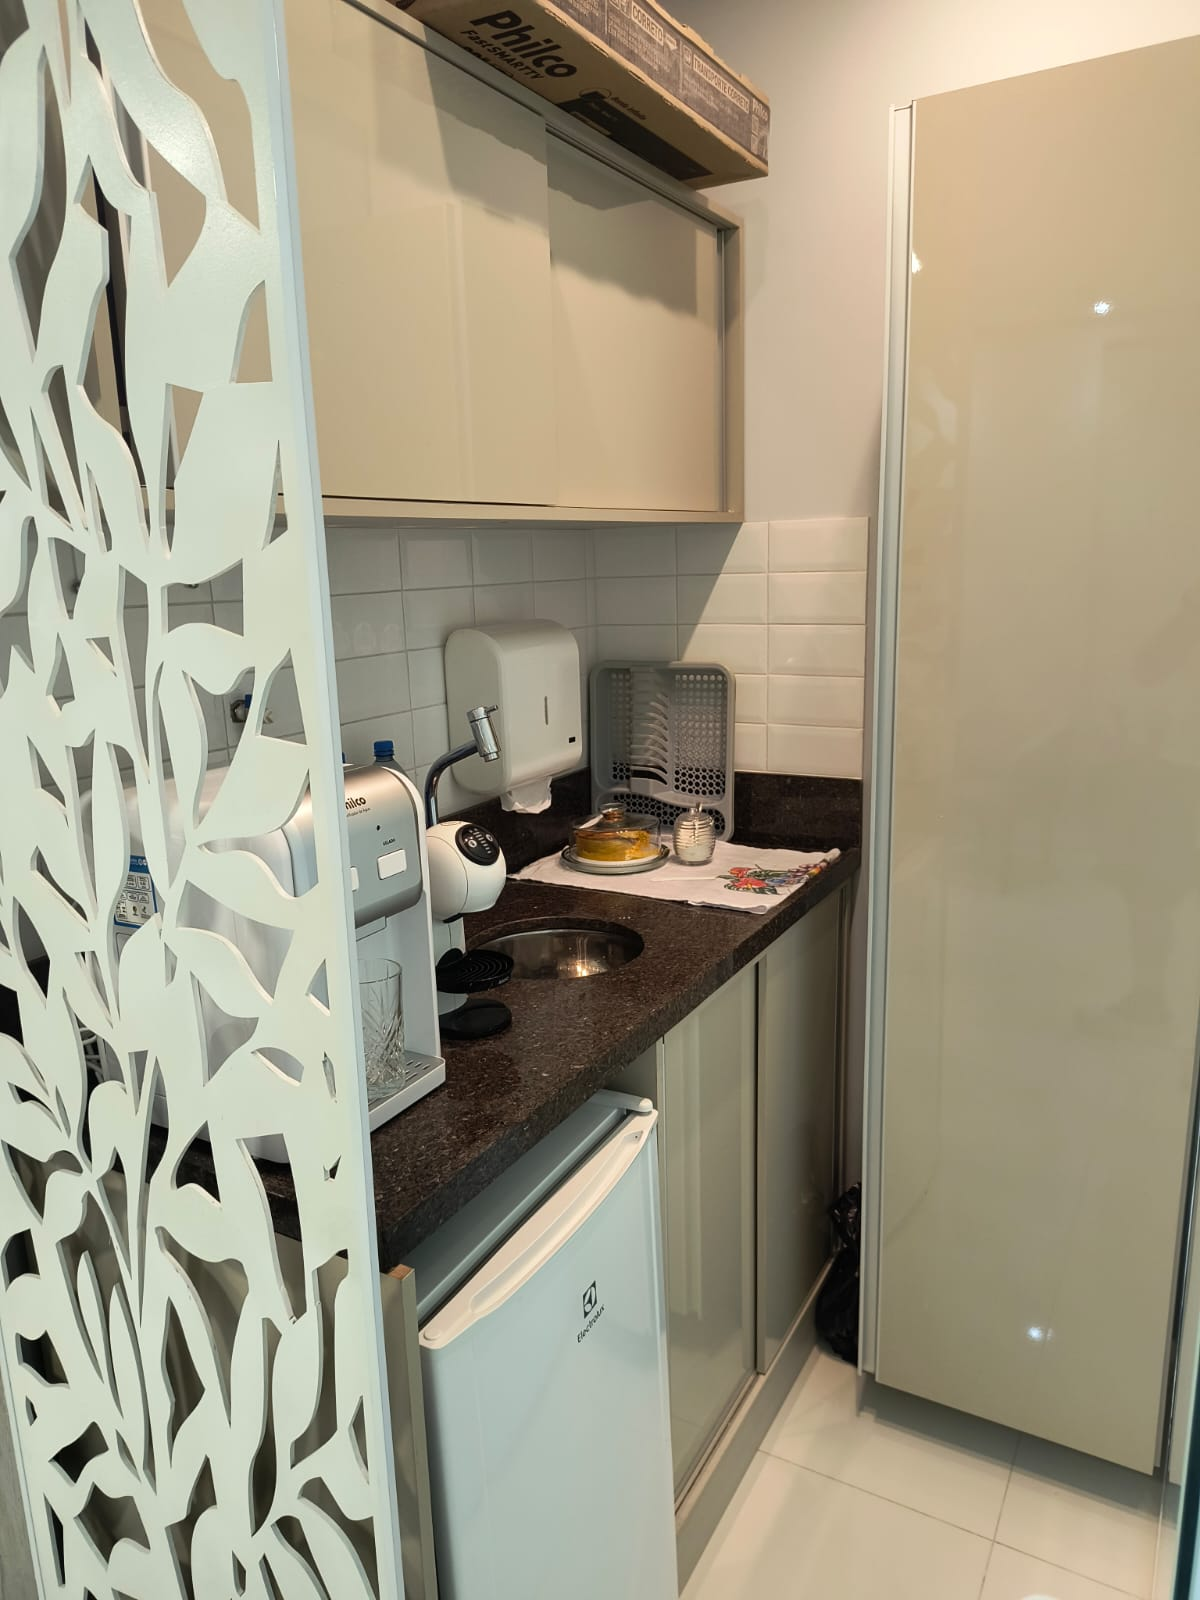
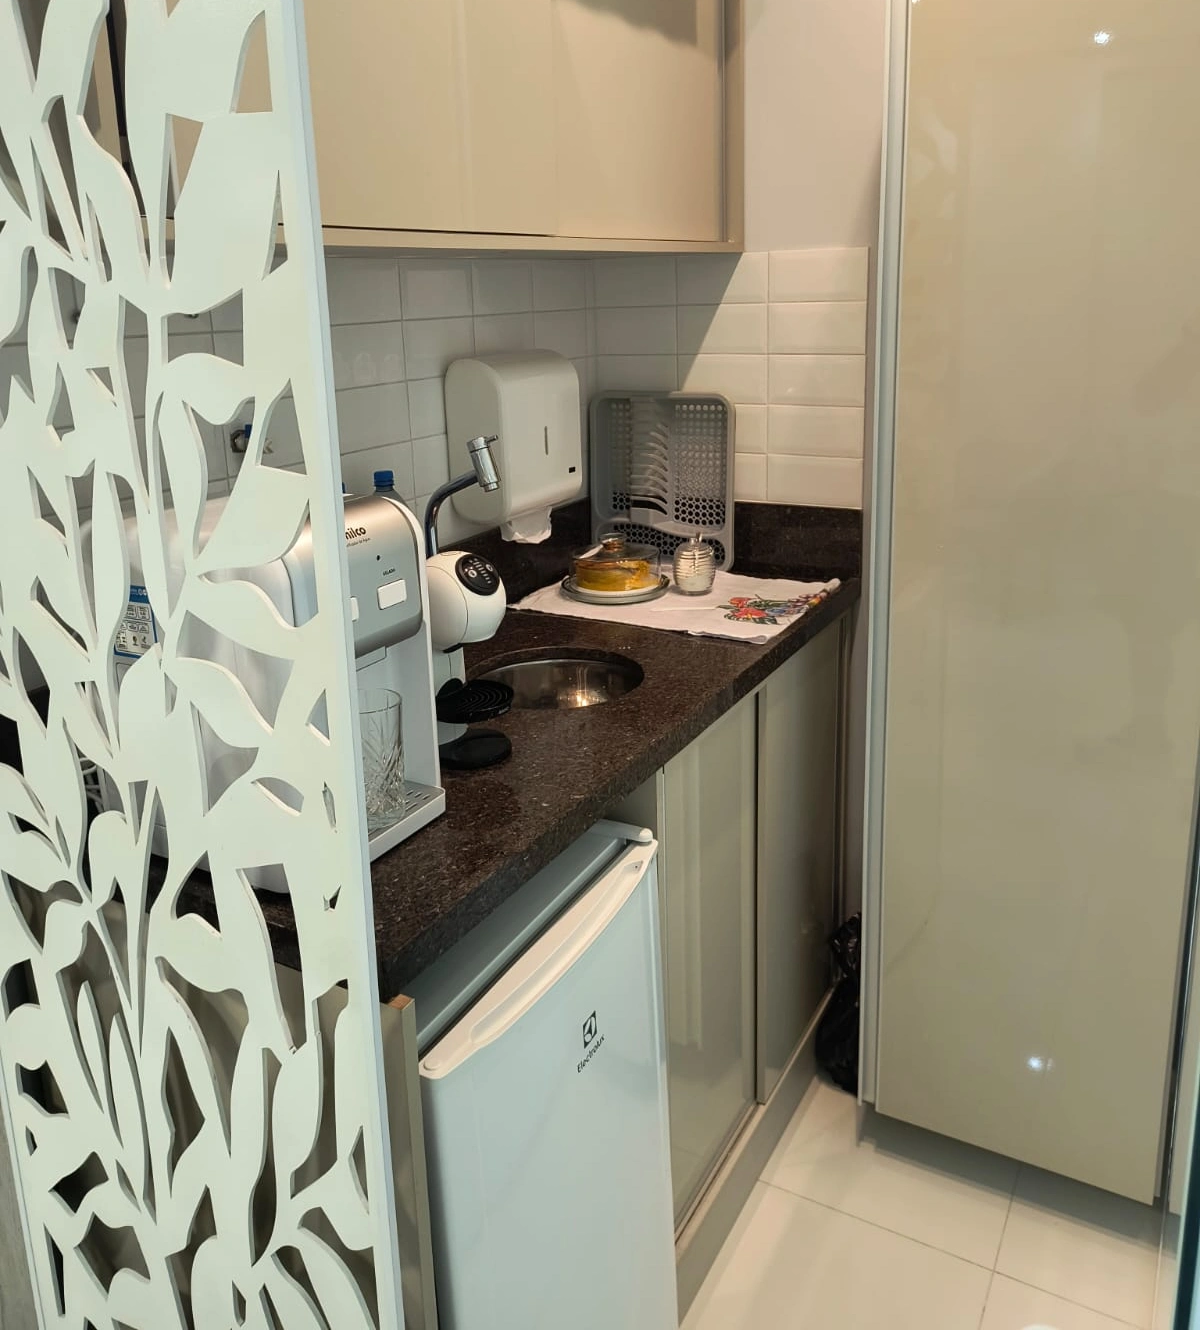
refactor: update SEO tags and site assets
- Add meta tags and canonical URL for better SEO.
- Update technical responsible information in footer.
- Refresh hero section imagery and gallery component.
- Configure standardized favicon and Apple touch icons.

diff --git a/index.html b/index.html
@@ -12,13 +12,26 @@
     <meta name="viewport" content="width=device-width, initial-scale=1.0" />
     <title>Beleza Atual | Clínica de Estética em São Bernardo do Campo</title>
     <meta name="description" content="Tratamentos faciais, corporais e estética íntima com avaliação individualizada e acompanhamento de excelência em São Bernardo do Campo - SP." />
+    <link rel="canonical" href="https://www.clinicabelezaatual.com.br/" />
     <meta property="og:title" content="Clínica Beleza Atual | Estética Facial, Corporal e Íntima" />
     <meta property="og:description" content="Cuidado que respeita a sua individualidade. Conheça nossos tratamentos e agende sua avaliação personalizada." />
+    <meta property="og:url" content="https://www.clinicabelezaatual.com.br/" />
     <meta property="og:type" content="website" />
+    <meta property="og:image" content="https://www.clinicabelezaatual.com.br/assets/recepcao-cba.webp" />
+    <meta property="og:image:alt" content="Recepção da Clínica Beleza Atual em São Bernardo do Campo" />
     <meta name="twitter:card" content="summary_large_image" />
+    <meta name="twitter:title" content="Beleza Atual | Clínica de Estética em São Bernardo do Campo" />
+    <meta name="twitter:description" content="Tratamentos faciais, corporais e estética íntima com avaliação individualizada e excelência." />
+    <meta name="twitter:image" content="https://www.clinicabelezaatual.com.br/assets/recepcao-cba.webp" />
     
-    <link rel="icon" type="image/webp" href="/assets/logo-transparente.webp" />
-    <link rel="apple-touch-icon" href="/assets/logo.jpg" />
+    <!-- Favicon & Icons conforming to Google Search guidelines (multiple of 48px square) -->
+    <link rel="icon" href="/favicon.ico" sizes="any" />
+    <link rel="icon" type="image/png" sizes="48x48" href="/favicon-48x48.png" />
+    <link rel="icon" type="image/png" sizes="96x96" href="/favicon-96x96.png" />
+    <link rel="icon" type="image/png" sizes="192x192" href="/favicon-192x192.png" />
+    <link rel="apple-touch-icon" sizes="180x180" href="/apple-touch-icon.png" />
+    <link rel="manifest" href="/site.webmanifest" />
+    <meta name="theme-color" content="#521C22" />
     
     <!-- Google Fonts: Cormorant Garamond, Playfair Display & Plus Jakarta Sans -->
     <link rel="preconnect" href="https://fonts.googleapis.com">

diff --git a/src/data/clinicData.ts b/src/data/clinicData.ts
@@ -412,14 +412,14 @@ export const FAQS: FaqItem[] = [
 export const CLINIC_PHOTOS: ClinicPhoto[] = [
   {
     id: 'photo-recepcao',
-    title: 'Recepção e Atendimento',
+    title: 'Recepção e Acolhimento',
     description: 'Design contemporâneo, iluminação suave e recepção acolhedora',
     image: '/assets/recepcao-cba.webp',
   },
   {
     id: 'photo-consultorio',
-    title: 'Sala de Procedimentos Estéticos',
-    description: 'Equipamentos modernos com rigoroso padrão de biossegurança e conforto',
+    title: 'Consultório & Sala de Procedimentos',
+    description: 'Ambiente privativo para avaliação individualizada e procedimentos com rigoroso padrão de biossegurança',
     image: '/assets/consultorio-cba2.webp',
   },
   {
@@ -433,12 +433,6 @@ export const CLINIC_PHOTOS: ClinicPhoto[] = [
     title: 'Espaço Café & Boas-Vindas',
     description: 'Café expresso e atendimento exclusivo preparado para sua visita',
     image: '/assets/area-de-cafe-cba.webp',
-  },
-  {
-    id: 'photo-consultorio-atendimento',
-    title: 'Consultório de Avaliação',
-    description: 'Espaço privativo e reservado para diagnósticos e estética individualizada',
-    image: '/assets/consultorio-cba.webp',
   },
   {
     id: 'photo-banheiro',

diff --git a/src/components/Footer.tsx b/src/components/Footer.tsx
@@ -133,7 +133,7 @@ export const Footer: React.FC = () => {
               © {new Date().getFullYear()} Beleza Atual Clínica de Estética Ltda. Todos os direitos reservados.
             </p>
             <p className="text-[10px] text-[#8F7D73]">
-              Responsáveis Técnicos: Dr. Deli Brito (CRF/SP 52.349) • Luciana Freire (CRF-SP 45.891). Estabelecimento em conformidade com as normas da Anvisa e Vigilância Sanitária Municipal.
+              Responsável Técnico: Dr. Deli Brito (CRF/SP 52.349) • Fundadora: Luciana Freire. Estabelecimento em conformidade com as normas da Anvisa e Vigilância Sanitária Municipal.
             </p>
           </div>
 

diff --git a/src/components/HeroSection.tsx b/src/components/HeroSection.tsx
@@ -9,8 +9,12 @@ interface HeroSectionProps {
 
 const HERO_SLIDES = [
   {
-    src: '/assets/clinica_interior_1.webp',
-    alt: 'Ambiente exclusivo da Clínica Beleza Atual',
+    src: '/assets/recepcao-cba.webp',
+    alt: 'Recepção e atendimento exclusivo da Clínica Beleza Atual em São Bernardo do Campo',
+  },
+  {
+    src: '/assets/consultorio-cba2.webp',
+    alt: 'Consultório e sala de procedimentos da Clínica Beleza Atual',
   },
   {
     src: '/assets/tratamento_luvas_1.webp',

diff --git a/src/components/SpaceSection.tsx b/src/components/SpaceSection.tsx
@@ -118,7 +118,7 @@ export const SpaceSection: React.FC<SpaceSectionProps> = ({ onOpenDirections }) 
           </div>
 
           {/* Interactive Thumbnails Row */}
-          <div className="grid grid-cols-2 sm:grid-cols-3 lg:grid-cols-6 gap-3 sm:gap-4 mt-4">
+          <div className="grid grid-cols-2 sm:grid-cols-3 lg:grid-cols-5 gap-3 sm:gap-4 mt-4">
             {CLINIC_PHOTOS.map((photo, index) => {
               const isActive = index === activePhotoIndex;
               return (
